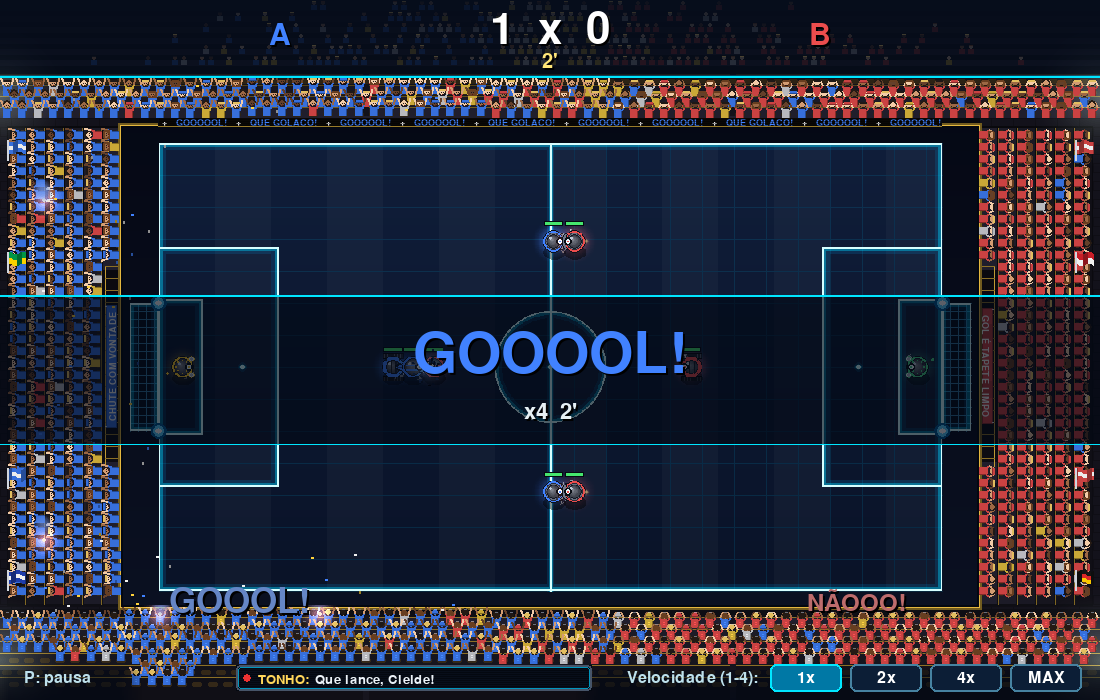
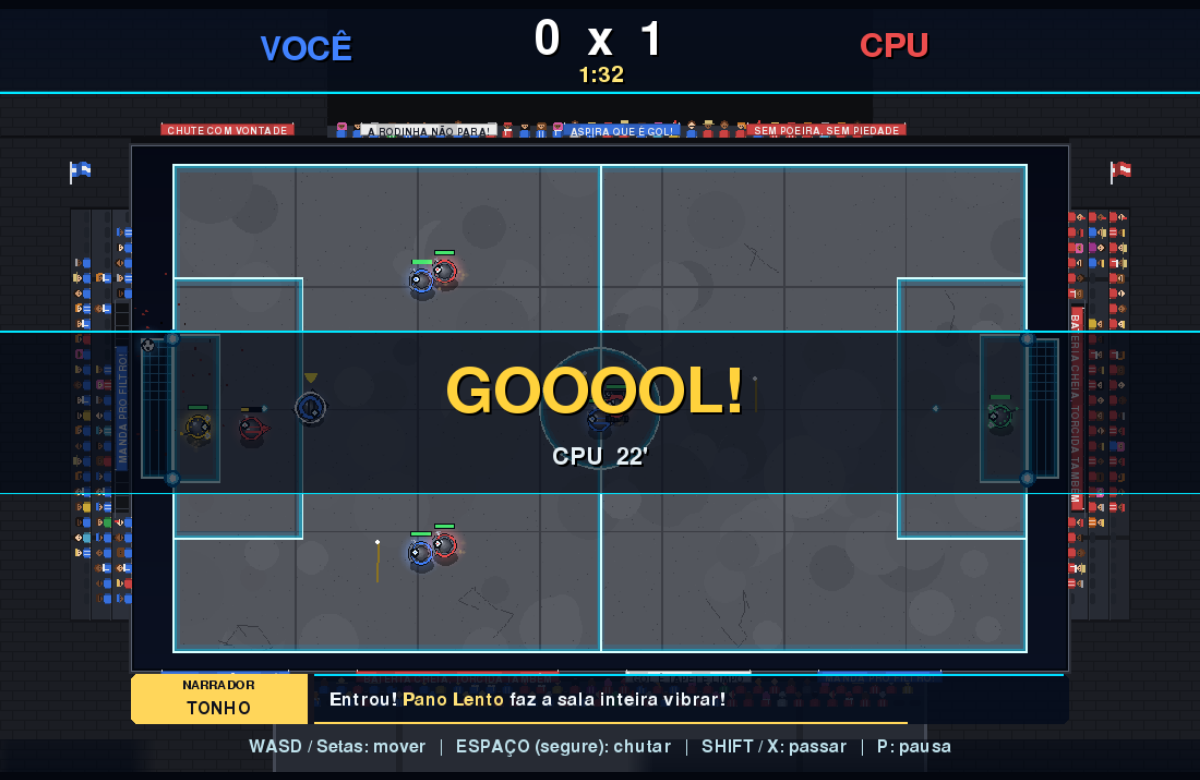
docs: captura da partida com a faixa do narrador

diff --git a/README.md b/README.md
@@ -20,7 +20,7 @@ pelas habilidades dos robôs.
 
 | | |
 |---|---|
-| ![Menu principal](docs/img/menu.png) | ![Partida com câmera de estádio e torcida no gol](docs/img/partida-estadio-gol.png) |
+| ![Menu principal](docs/img/menu.png) | ![Partida com câmera de estádio, gol e faixa do narrador](docs/img/partida-estadio-gol.png) |
 | **Menu** - amistosos, carreira de clubes, Modo Robôs e campanha | **Partida** - câmera de estádio, torcida reagindo ao gol, LED e faixa do narrador |
 | ![Campanha: diálogo](docs/img/campanha-dialogo.png) | ![Campanha: mapa dos capítulos](docs/img/campanha-mapa.png) |
 | **Campanha** - diálogos com retratos animados e cenários desenhados por código | **Mapa da campanha** - da escola ao Mundial de Aspiradores |
